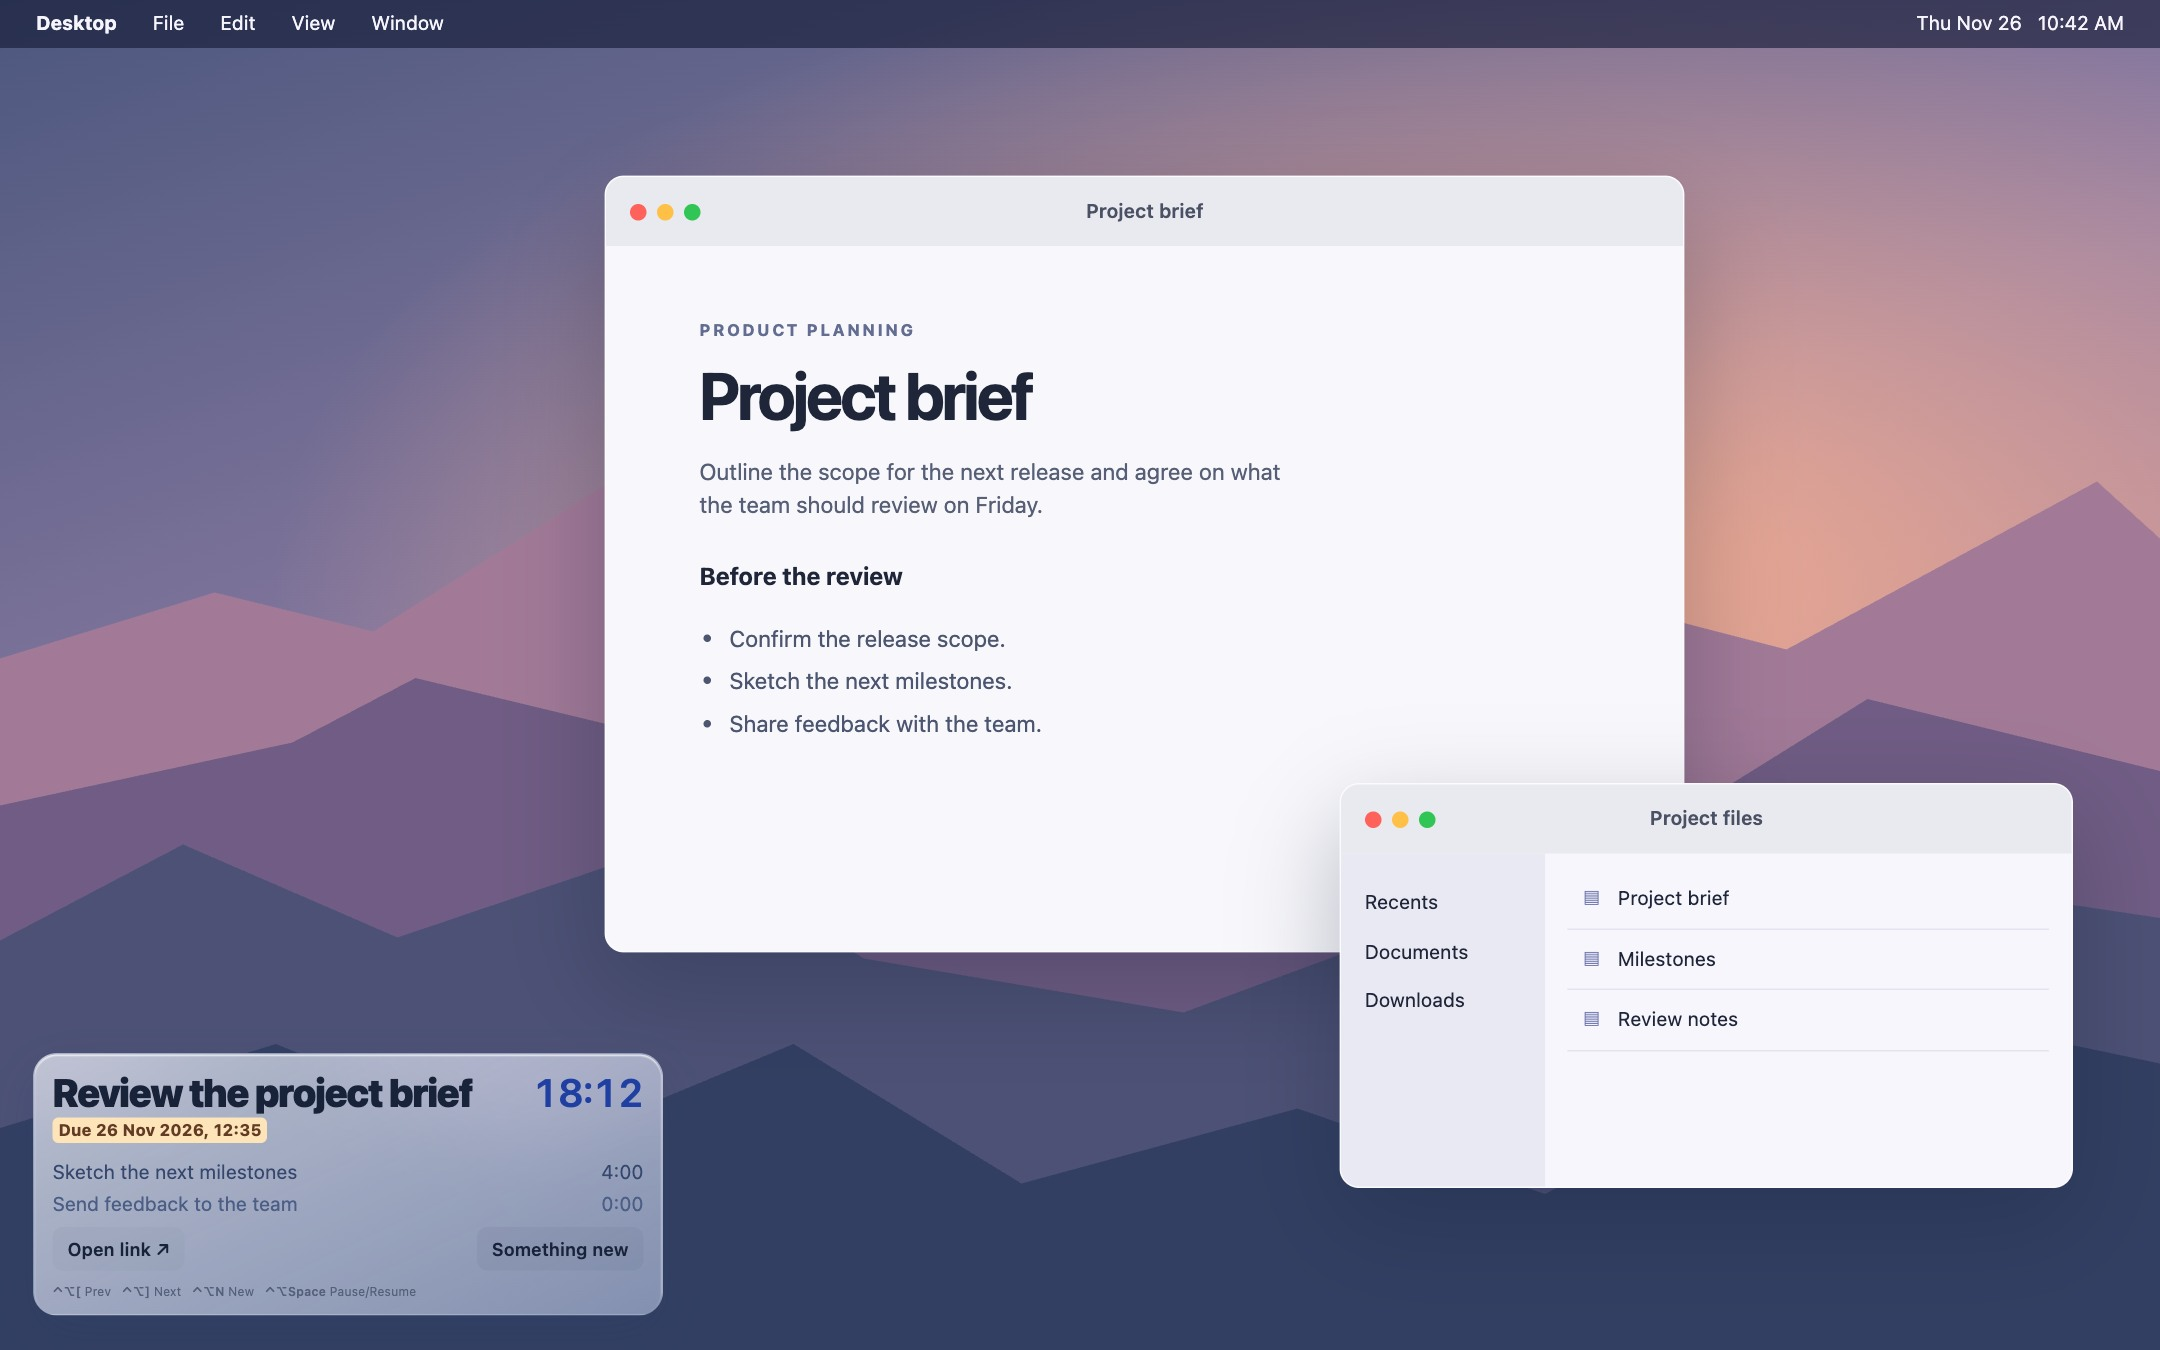
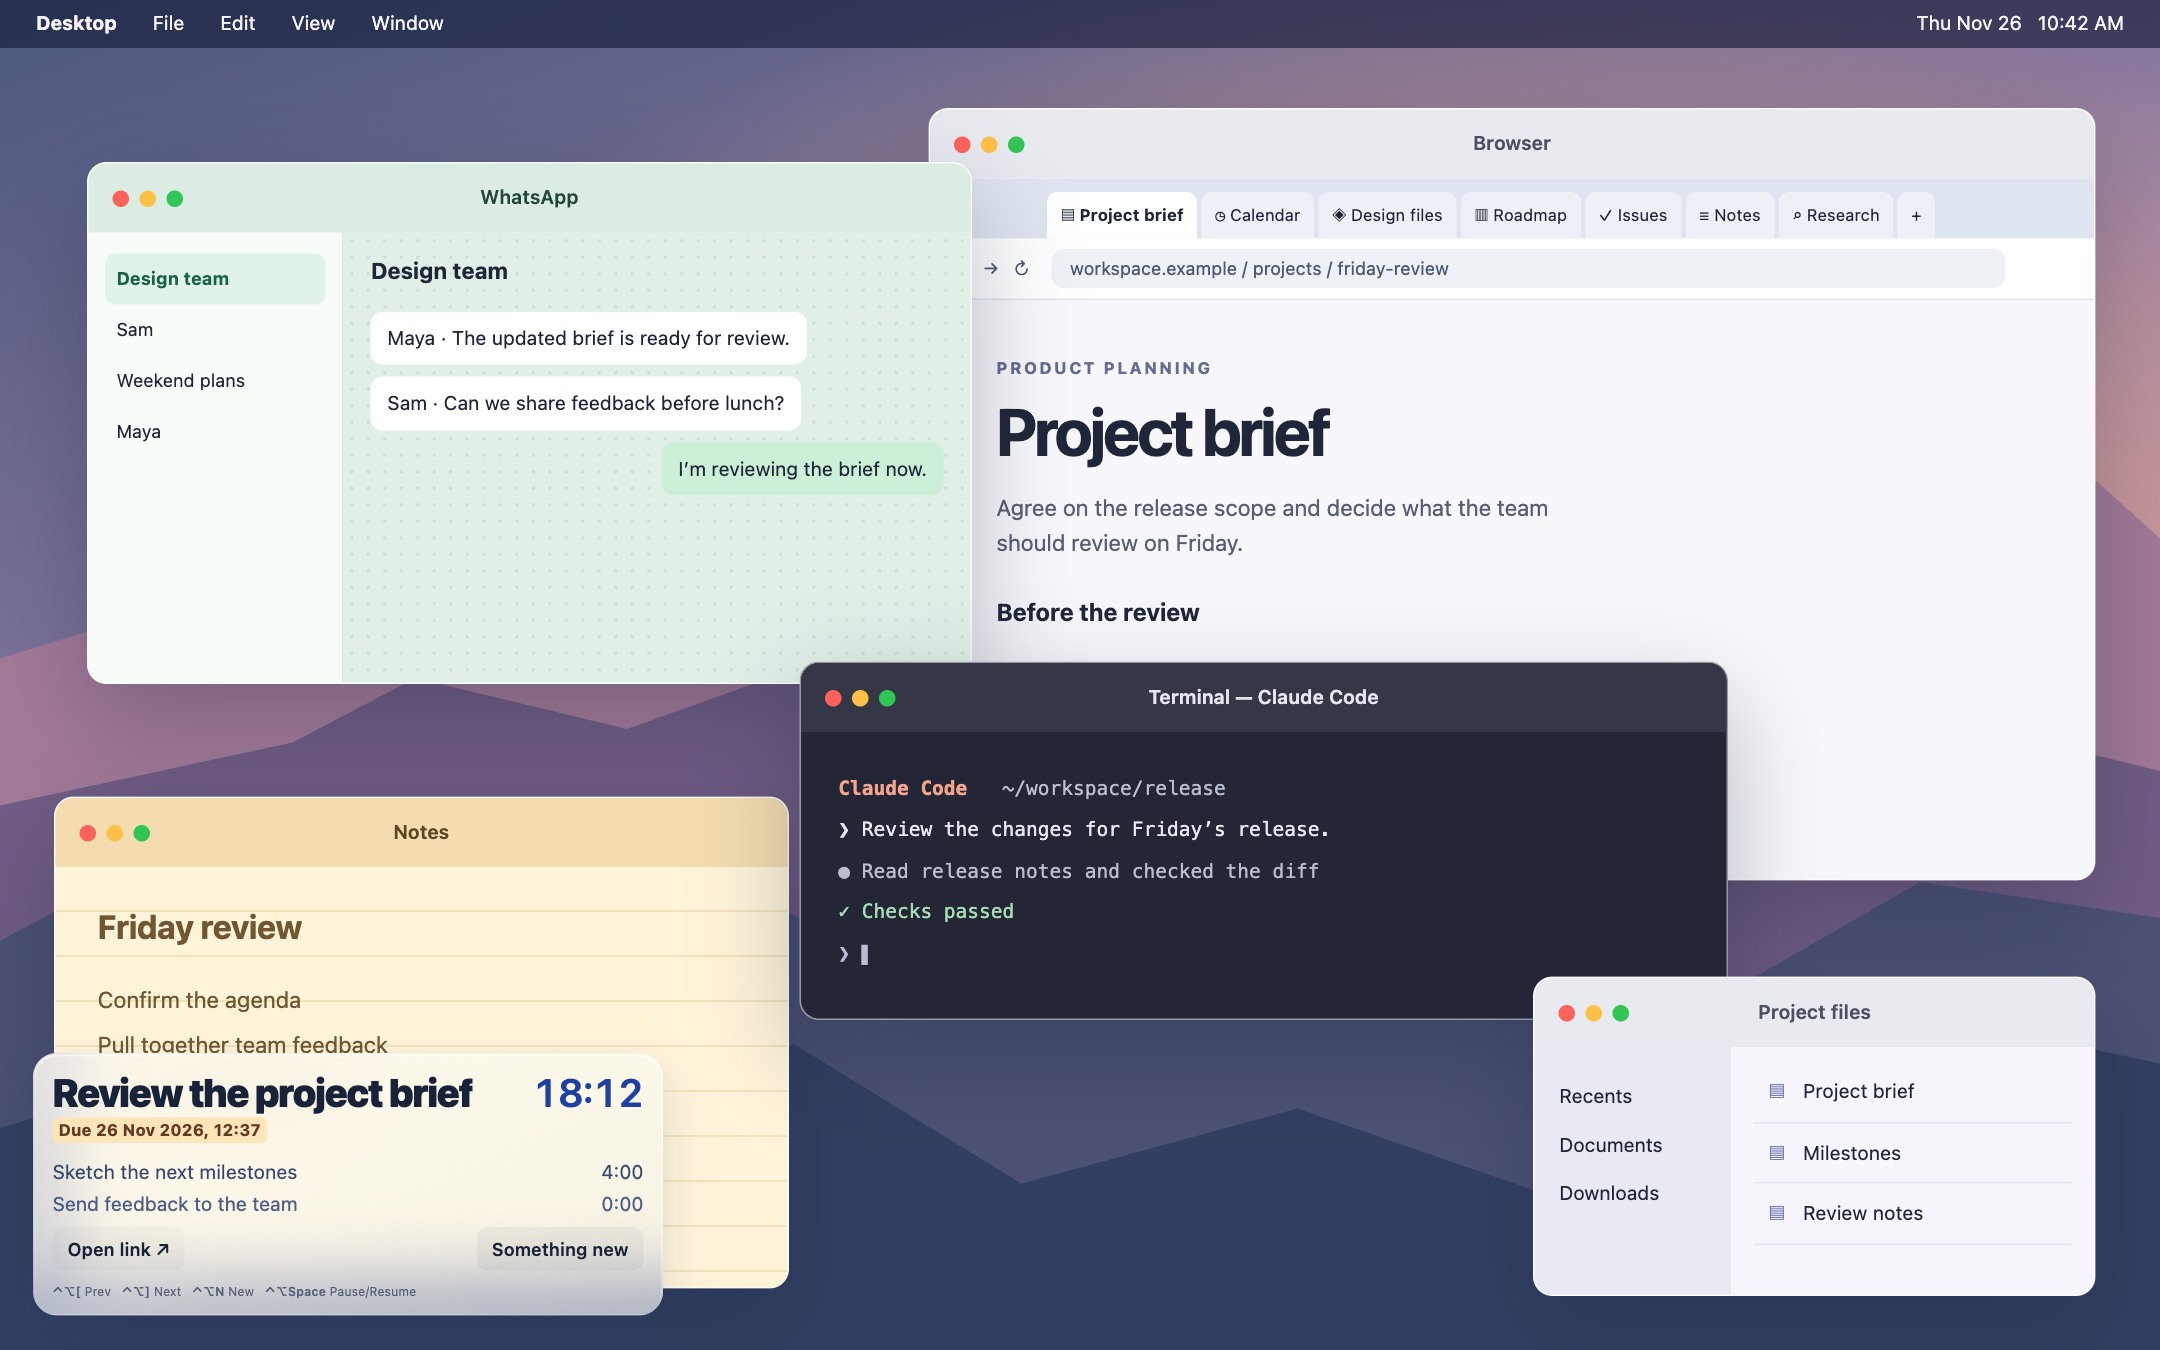
docs: show glass panel over a busy desktop

diff --git a/README.md b/README.md
@@ -1,8 +1,8 @@
 # Next Up
 
-![Simulated laptop desktop with the collapsed Next Up window in the bottom-left corner](docs/images/floating-window.jpg)
+![Simulated laptop desktop showing WhatsApp, Claude Code, a browser with many tabs, and Next Up floating over Notes in the bottom-left corner](docs/images/floating-window.jpg)
 
-*Collapsed view with the current task, timer, and the next two priorities.*
+*The translucent Next Up panel keeps the current task, timer, and next two priorities visible over other windows.*
 
 ![Simulated laptop desktop with the expanded Next Up task list in the bottom-left corner](docs/images/full-task-view.jpg)
 
